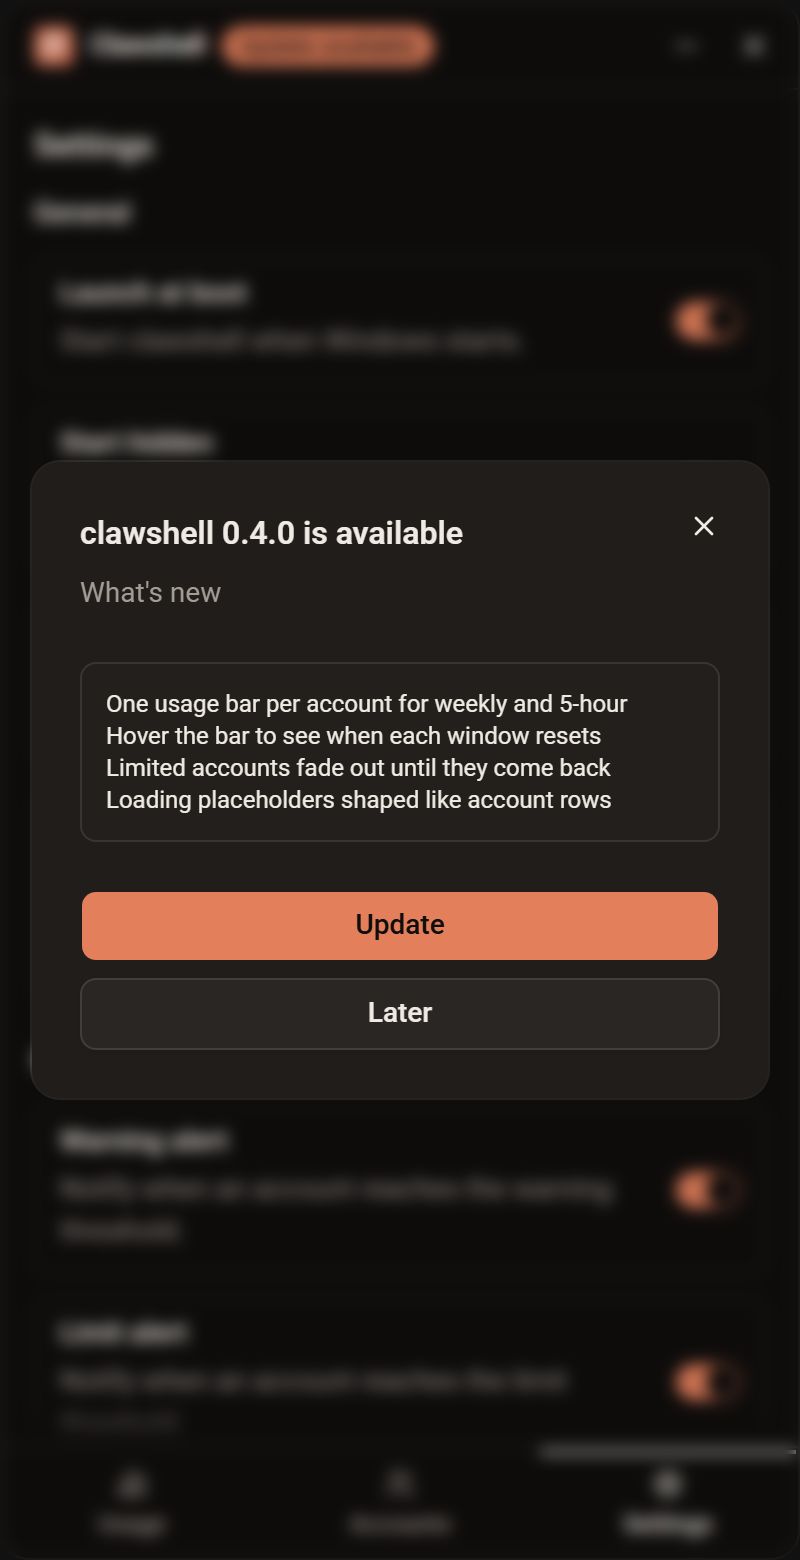
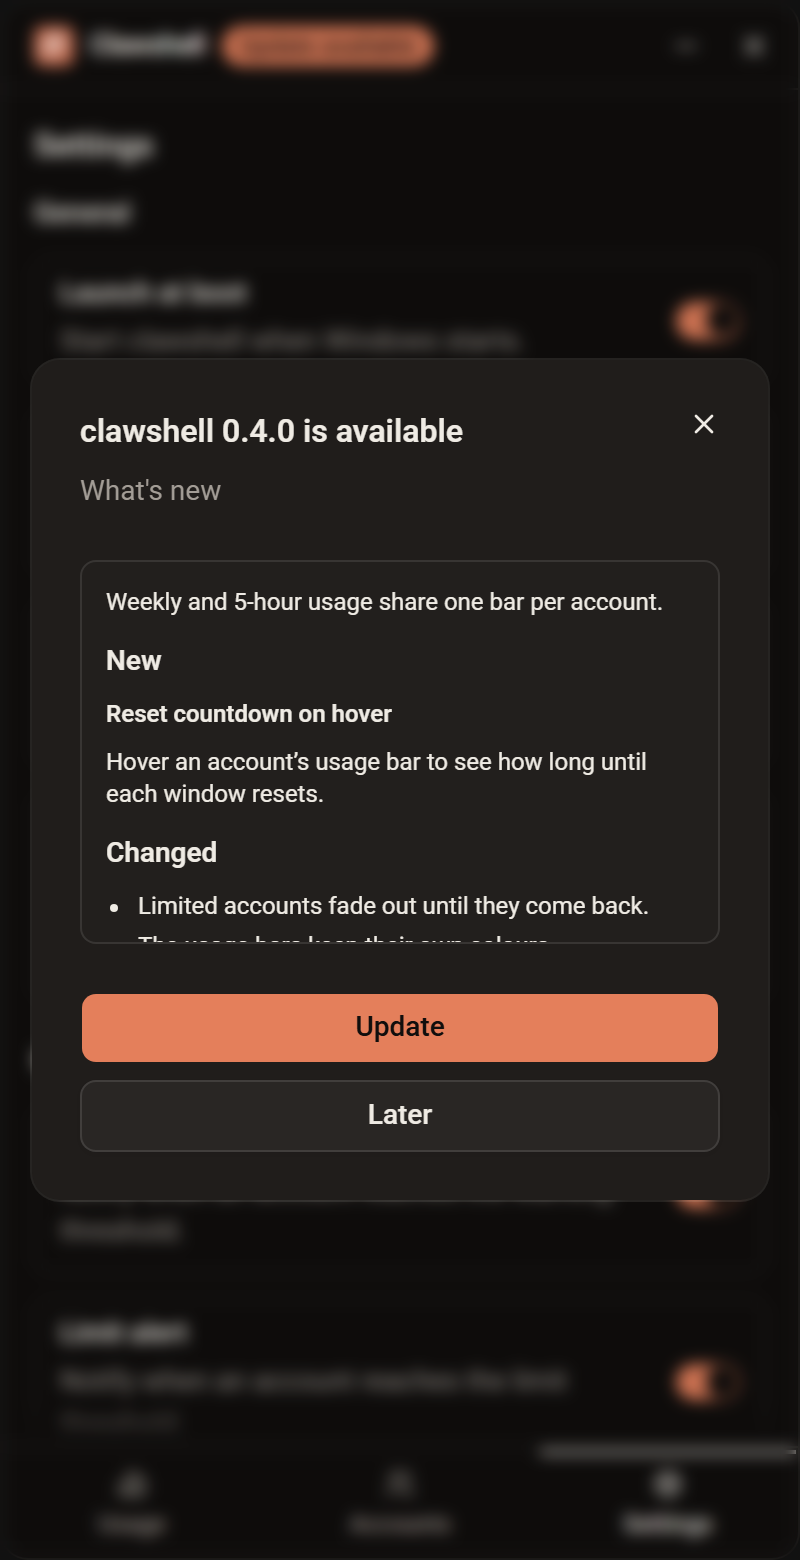
Lay out Markdown release notes in the update dialog
The dialog showed the notes as plain text, so headings and list markers
appeared as typed. release-notes.ts reads the few constructs the notes
use (headings, paragraphs, "- " lists, **bold** and `code`) into plain
data that the dialog renders as markup, never through {@html}, so
nothing in a downloaded manifest can inject HTML. Single line breaks
stay line breaks, so older plain-text notes look as before.

The screenshot mock now offers Markdown notes like the real manifest,
and update.png is retaken.

Changed region(s): [[0.0625, 0.2462, 0.9062, 0.7692]]

diff --git a/src/lib/release-notes.ts b/src/lib/release-notes.ts
@@ -1,0 +1,68 @@
+/**
+ * Release notes arrive as Markdown in latest.json. The update dialog shows the few constructs the
+ * notes use (headings, paragraphs, `- ` lists, **bold** and `code`) as plain data, never as HTML, so
+ * nothing in a downloaded manifest can inject markup. Anything else stays as written.
+ */
+
+/** A run of text in a line, optionally **bold** or `code`. */
+export type Inline = { text: string; bold?: boolean; code?: boolean };
+
+export type NotesBlock =
+	| { kind: 'heading'; level: 1 | 2 | 3; text: Inline[] }
+	/** One paragraph; its lines keep their own line breaks, as plain-text notes expect. */
+	| { kind: 'paragraph'; lines: Inline[][] }
+	| { kind: 'list'; items: Inline[][] };
+
+/** Splits a line into plain, bold and code runs; a link keeps only its text. */
+export function parseInline(line: string): Inline[] {
+	const text = line.replace(/\[([^\]]+)\]\([^)]*\)/g, '$1');
+	return text
+		.split(/(\*\*[^*]+\*\*|`[^`]+`)/)
+		.filter((part) => part !== '')
+		.map((part) => {
+			if (part.startsWith('**') && part.endsWith('**') && part.length > 4) {
+				return { text: part.slice(2, -2), bold: true };
+			}
+			if (part.startsWith('`') && part.endsWith('`') && part.length > 2) {
+				return { text: part.slice(1, -1), code: true };
+			}
+			return { text: part };
+		});
+}
+
+/** Reads release notes into blocks; a blank line ends a paragraph or list. */
+export function parseNotes(notes: string): NotesBlock[] {
+	const blocks: NotesBlock[] = [];
+	let open: NotesBlock | null = null;
+	const close = () => {
+		if (open) blocks.push(open);
+		open = null;
+	};
+
+	for (const raw of notes.split(/\r?\n/)) {
+		const line = raw.trimEnd();
+		const heading = /^(#{1,6})\s+(.*)$/.exec(line);
+		const item = /^\s*[-*]\s+(.*)$/.exec(line);
+		if (line.trim() === '') {
+			close();
+		} else if (heading) {
+			close();
+			const level = Math.min(heading[1].length, 3) as 1 | 2 | 3;
+			blocks.push({ kind: 'heading', level, text: parseInline(heading[2]) });
+		} else if (item) {
+			if (open?.kind !== 'list') {
+				close();
+				open = { kind: 'list', items: [] };
+			}
+			open.items.push(parseInline(item[1]));
+		} else {
+			if (open?.kind !== 'paragraph') {
+				close();
+				open = { kind: 'paragraph', lines: [] };
+			}
+			open.lines.push(parseInline(line.trim()));
+		}
+	}
+	close();
+	return blocks;
+}

diff --git a/src/lib/release-notes.spec.ts b/src/lib/release-notes.spec.ts
@@ -1,0 +1,68 @@
+import { describe, expect, it } from 'vitest';
+import { parseInline, parseNotes } from './release-notes';
+
+describe('parseNotes', () => {
+	it('reads headings, paragraphs and lists, split by blank lines', () => {
+		const notes = [
+			'The usage bar is new.',
+			'',
+			'## New',
+			'',
+			'### One bar',
+			'',
+			'Weekly first.',
+			'',
+			'## Changed',
+			'',
+			'- Limited accounts fade.',
+			'- Placeholders look like rows.'
+		].join('\n');
+
+		expect(parseNotes(notes)).toEqual([
+			{ kind: 'paragraph', lines: [[{ text: 'The usage bar is new.' }]] },
+			{ kind: 'heading', level: 2, text: [{ text: 'New' }] },
+			{ kind: 'heading', level: 3, text: [{ text: 'One bar' }] },
+			{ kind: 'paragraph', lines: [[{ text: 'Weekly first.' }]] },
+			{ kind: 'heading', level: 2, text: [{ text: 'Changed' }] },
+			{
+				kind: 'list',
+				items: [[{ text: 'Limited accounts fade.' }], [{ text: 'Placeholders look like rows.' }]]
+			}
+		]);
+	});
+
+	it('keeps the line breaks of plain-text notes inside one paragraph', () => {
+		expect(parseNotes('Fixed sign-in routing.\r\nUsage bars are faster.')).toEqual([
+			{
+				kind: 'paragraph',
+				lines: [[{ text: 'Fixed sign-in routing.' }], [{ text: 'Usage bars are faster.' }]]
+			}
+		]);
+	});
+
+	it('caps deep headings at level 3', () => {
+		expect(parseNotes('##### Deep')).toEqual([
+			{ kind: 'heading', level: 3, text: [{ text: 'Deep' }] }
+		]);
+	});
+});
+
+describe('parseInline', () => {
+	it('marks bold and code runs, and keeps only the text of a link', () => {
+		expect(
+			parseInline('Pick **Calendar**, see `latest.json` or [Releasing](../README.md).')
+		).toEqual([
+			{ text: 'Pick ' },
+			{ text: 'Calendar', bold: true },
+			{ text: ', see ' },
+			{ text: 'latest.json', code: true },
+			{ text: ' or Releasing.' }
+		]);
+	});
+
+	it('leaves markup it does not know as written', () => {
+		expect(parseInline('<img src=x onerror=alert(1)>')).toEqual([
+			{ text: '<img src=x onerror=alert(1)>' }
+		]);
+	});
+});

diff --git a/src/lib/components/update-dialog.svelte b/src/lib/components/update-dialog.svelte
@@ -8,6 +8,7 @@
 	import { formatTag } from '$lib/locale-state.svelte';
 	import { m } from '$lib/paraglide/messages.js';
 	import { installUpdate, updateState } from '$lib/update.svelte';
+	import { parseNotes, type Inline } from '$lib/release-notes';
 
 	let { open = $bindable(false) }: { open?: boolean } = $props();
 
@@ -21,6 +22,14 @@
 			: null
 	);
 </script>
+
+{#snippet inline(runs: Inline[])}
+	{#each runs as run, i (i)}
+		{#if run.bold}<strong class="font-semibold">{run.text}</strong>{:else if run.code}<code
+				class="rounded bg-muted px-1 font-mono">{run.text}</code
+			>{:else}{run.text}{/if}
+	{/each}
+{/snippet}
 
 {#if current.status !== 'idle'}
 	<Dialog.Root bind:open>
@@ -42,9 +51,27 @@
 			{#if current.update.body}
 				<div
 					data-testid="update-notes"
-					class="max-h-48 overflow-y-auto rounded-md border bg-muted/40 p-3 text-xs whitespace-pre-wrap"
+					class="flex max-h-48 flex-col gap-2 overflow-y-auto rounded-md border bg-muted/40 p-3 text-xs"
 				>
-					{current.update.body}
+					{#each parseNotes(current.update.body) as block, i (i)}
+						{#if block.kind === 'heading' && block.level < 3}
+							<h3 class="mt-1 text-sm font-semibold first:mt-0">{@render inline(block.text)}</h3>
+						{:else if block.kind === 'heading'}
+							<h4 class="font-semibold">{@render inline(block.text)}</h4>
+						{:else if block.kind === 'list'}
+							<ul class="flex list-disc flex-col gap-1 ps-4">
+								{#each block.items as item, j (j)}
+									<li>{@render inline(item)}</li>
+								{/each}
+							</ul>
+						{:else}
+							<p>
+								{#each block.lines as line, j (j)}
+									{#if j > 0}<br />{/if}{@render inline(line)}
+								{/each}
+							</p>
+						{/if}
+					{/each}
 				</div>
 			{/if}
 

diff --git a/src/lib/components/update-dialog.svelte.spec.ts b/src/lib/components/update-dialog.svelte.spec.ts
@@ -82,6 +82,44 @@ describe('update dialog', () => {
 		expect(area.scrollHeight).toBeGreaterThan(area.clientHeight);
 	});
 
+	it('lays out Markdown release notes as headings, paragraphs and a list, never as HTML', async () => {
+		({ restore } = mockTauri());
+		updateState.current = {
+			status: 'available',
+			update: new Update({
+				rid: 7,
+				currentVersion: '0.1.0',
+				version: '0.2.0',
+				body: [
+					'One bar per account.',
+					'',
+					'## New',
+					'',
+					'### Reset countdown',
+					'',
+					'Hover the **bar**.',
+					'',
+					'## Changed',
+					'',
+					'- Limited accounts fade.',
+					'- <img src=x onerror="window.injected=true">'
+				].join('\n'),
+				rawJson: {}
+			})
+		};
+		render(TopBar);
+		await badge().click();
+
+		const area = dialog().getByTestId('update-notes');
+		await expect.element(area.getByRole('heading', { name: 'New' })).toBeVisible();
+		await expect.element(area.getByRole('heading', { name: 'Reset countdown' })).toBeVisible();
+		await expect.element(area.getByText('bar', { exact: true })).toHaveClass(/font-semibold/);
+		expect(area.getByRole('listitem').elements()).toHaveLength(2);
+		await expect.element(area).not.toHaveTextContent('##');
+		expect(area.element().querySelector('img')).toBeNull();
+		await expect.element(area).toHaveTextContent('<img src=x onerror="window.injected=true">');
+	});
+
 	it('closes with Later and keeps the badge', async () => {
 		({ restore } = mockTauri());
 		updateState.current = { status: 'available', update: release() };

diff --git a/scripts/screenshots/mock.js b/scripts/screenshots/mock.js
@@ -221,11 +221,21 @@
 		disclaimerAccepted: 1
 	};
 
+	// Markdown, as the release workflow writes it into latest.json.
 	const notes = [
-		'One usage bar per account for weekly and 5-hour',
-		'Hover the bar to see when each window resets',
-		'Limited accounts fade out until they come back',
-		'Loading placeholders shaped like account rows'
+		'Weekly and 5-hour usage share one bar per account.',
+		'',
+		'## New',
+		'',
+		'### Reset countdown on hover',
+		'',
+		'Hover an account’s usage bar to see how long until each window resets.',
+		'',
+		'## Changed',
+		'',
+		'- Limited accounts fade out until they come back.',
+		'- The usage bars keep their own colours.',
+		'- Loading placeholders look like account rows.'
 	].join('\n');
 
 	const handlers = {

diff --git a/CHANGELOG.md b/CHANGELOG.md
@@ -7,6 +7,14 @@ and this project adheres to [Semantic Versioning](https://semver.org/spec/v2.0.0
 
 ## [Unreleased]
 
+### Changed
+
+- The update dialog lays out the release notes with their headings, paragraphs and bullet lists, instead of showing the raw `##` and `-` markers.
+
+### Fixed
+
+- The update dialog's **What's new** was empty because the release notes never reached the update manifest. Releases now include them, and v0.4.0's manifest has been fixed too.
+
 ## [0.4.0] - 2026-11-01
 
 ### Changed
